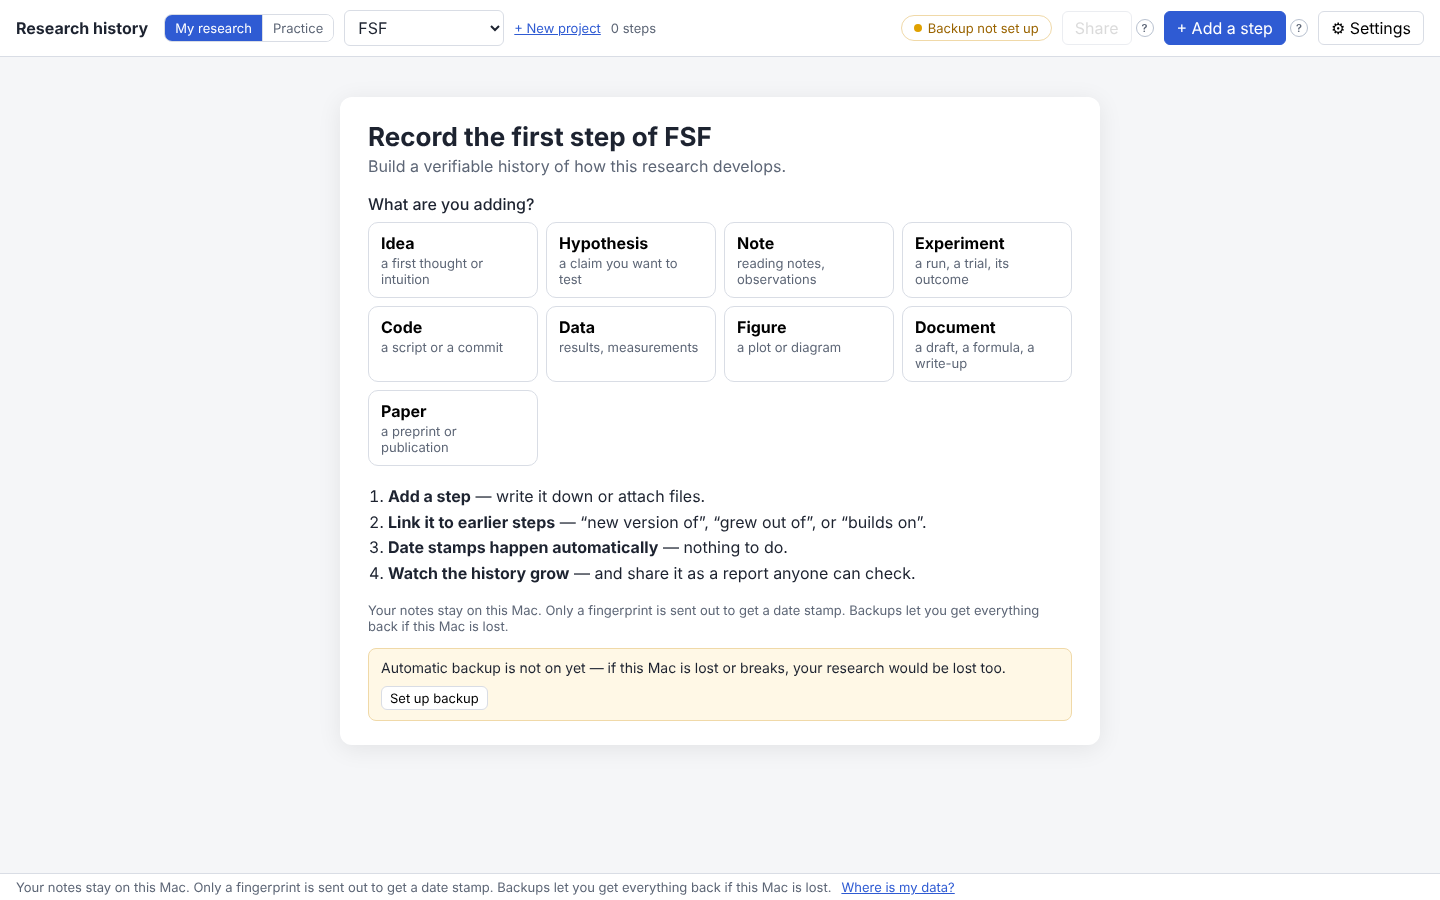
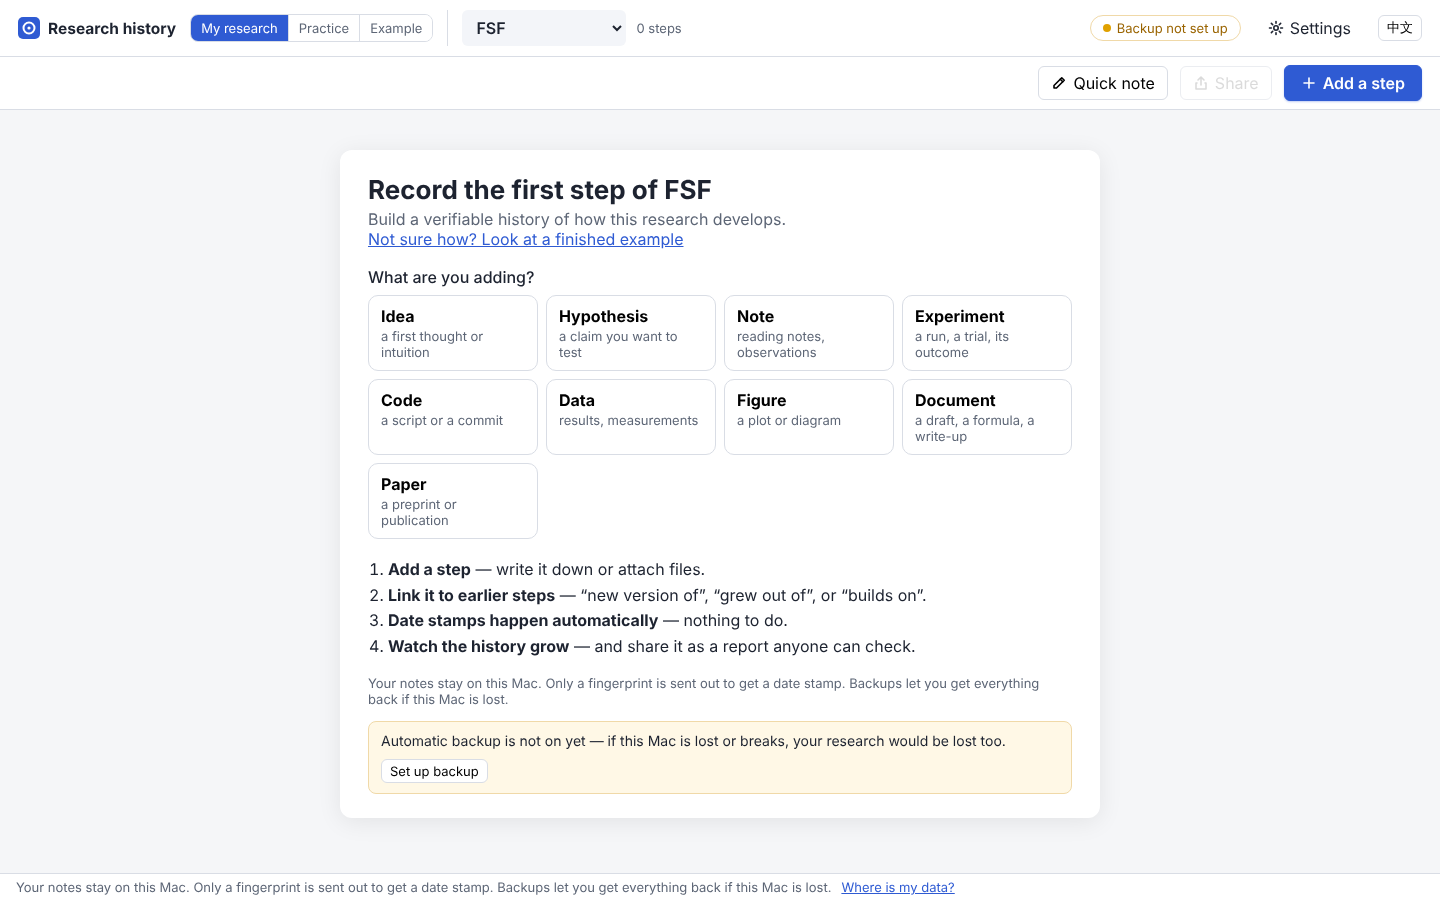
README for v0.7: three spaces, the example's languages, translation; new screenshots
- Title v0.7; the "AI inference" source now covers the online summary and
  the translation of a step; the example paragraph says it has two
  projects and the tour bar names the open one, and that it opens in
  seconds; the example is kept per language; the privacy paragraph and
  the AI section mention the local translation (en and zh alike).
- Screenshots made again from the FSF sample research with the current
  interface (tools/screenshots.py now loads the sample into My research):
  the map with key steps only, a step's panel, the form and the report;
  the backup-setup screenshot answers the folder check as a Mac with
  iCloud Drive would, instead of "Folder not found".

Claude-Session: https://claude.ai/code/session_01338vVwpoV2q7j2StFZ2dbS

diff --git a/tools/screenshots.py b/tools/screenshots.py
@@ -1,4 +1,4 @@
-"""Regenerate the README screenshots in docs/screenshots/ from sample data.
+"""Regenerate the README screenshots in docs/screenshots/ from the FSF sample research (D-059).
 
 Uses the mock time-stamping authority, so the screenshots show "rprov Mock TSA".
 
@@ -16,10 +16,10 @@ sys.path.insert(0, str(ROOT))
 
 from playwright.sync_api import sync_playwright  # noqa: E402
 
+from app.demo import load_sample  # noqa: E402
 from app.services.export import build_bundle_files, plan_export, write_dir  # noqa: E402
 from tests.e2e.conftest import chromium_path  # noqa: E402
 from tests.e2e.server import LiveServer  # noqa: E402
-from tests.sample import build_log  # noqa: E402
 
 OUT = ROOT / "docs" / "screenshots"
 
@@ -33,6 +33,9 @@ def first_run(browser) -> None:
         page.get_by_placeholder("e.g. FSF").fill("FSF")
         page.screenshot(path=OUT / "first-run.png")
         page.get_by_role("button", name="Start").click()
+        # This machine has no iCloud Drive: answer the folder check as a Mac with one would.
+        page.route("**/api/backup/check?*", lambda route: route.fulfill(json={
+            "ok": True, "kind": "synced", "label": "iCloud Drive", "safe": True, "creates": True}))
         page.get_by_test_id("backup-setup").get_by_label("Backup folder").fill(
             "/Users/you/Library/Mobile Documents/com~apple~CloudDocs/Research Provenance Backups"
         )
@@ -45,34 +48,52 @@ def first_run(browser) -> None:
         page.close()
 
 
+def app_screens(browser, tmp: Path) -> None:
+    """The map, a step's panel and the shared report, with the FSF sample research (D-059) in
+    My research, as if it were the author's own."""
+    with LiveServer(tmp) as srv:
+        load_sample(srv.ctx, "en")
+        page = browser.new_page(viewport={"width": 1440, "height": 860})
+        page.add_init_script("localStorage.setItem('rprov-tips-hidden', '1')")  # the how-to line, read
+        page.goto(srv.url)
+        page.get_by_test_id("steps").locator(".step-card").first.wait_for()
+        page.get_by_test_id("tab-graph").click()
+        page.get_by_test_id("graph").wait_for()
+        page.get_by_role("checkbox", name="Key steps only").check()  # the turning points, large enough to read
+        page.get_by_test_id("map-legend-hide").click()  # so that it covers no step
+        page.locator(".react-flow__controls-fitview").click()
+        page.wait_for_timeout(800)
+        page.screenshot(path=OUT / "graph.png")
+        page.get_by_test_id("map-legend-open").click()
+        page.get_by_role("checkbox", name="Key steps only").uncheck()
+
+        page.get_by_test_id("tab-steps").click()
+        page.get_by_role("button", name="Hypothesis H1′: the exponent depends on the forcing").first.click()
+        page.get_by_test_id("detail").wait_for()
+        page.wait_for_timeout(500)
+        page.screenshot(path=OUT / "detail.png")
+        page.get_by_test_id("new-record").click()
+        page.wait_for_timeout(300)
+        page.screenshot(path=OUT / "record-form.png")
+        page.close()
+
+        plan = plan_export(srv.ctx.ledger, "FSF (sample)", None, default="full")
+        bundle = tmp / "bundle"
+        write_dir(build_bundle_files(srv.ctx.ledger, srv.ctx.anchors, plan), bundle)
+        report = browser.new_page(viewport={"width": 1200, "height": 900})
+        report.goto((bundle / "report.html").as_uri())
+        report.wait_for_timeout(500)
+        report.screenshot(path=OUT / "report.png")
+        report.close()
+
+
 def main() -> None:
     OUT.mkdir(parents=True, exist_ok=True)
     with sync_playwright() as p:
         browser = p.chromium.launch(executable_path=chromium_path())
         first_run(browser)
-        browser.close()
-    with tempfile.TemporaryDirectory() as tmp, LiveServer(Path(tmp)) as srv, sync_playwright() as p:
-        ids = build_log(srv.ctx)
-        browser = p.chromium.launch(executable_path=chromium_path())
-        page = browser.new_page(viewport={"width": 1440, "height": 860})
-        page.goto(srv.url)
-        page.get_by_test_id("graph").wait_for()
-        page.wait_for_timeout(600)
-        page.screenshot(path=OUT / "graph.png")
-        page.get_by_test_id(f"node-{ids['exp']}").click()
-        page.get_by_test_id("detail").wait_for()
-        page.wait_for_timeout(400)
-        page.screenshot(path=OUT / "detail.png")
-        page.get_by_test_id("new-record").click()
-        page.wait_for_timeout(300)
-        page.screenshot(path=OUT / "record-form.png")
-
-        plan = plan_export(srv.ctx.ledger, "FSF sample", None, default="full")
-        bundle = Path(tmp) / "bundle"
-        write_dir(build_bundle_files(srv.ctx.ledger, srv.ctx.anchors, plan), bundle)
-        report = browser.new_page(viewport={"width": 1200, "height": 900})
-        report.goto((bundle / "report.html").as_uri())
-        report.screenshot(path=OUT / "report.png")
+        with tempfile.TemporaryDirectory() as tmp:
+            app_screens(browser, Path(tmp))
         browser.close()
     print(f"wrote screenshots to {OUT}")
 

diff --git a/README.zh.md b/README.zh.md
@@ -1,10 +1,10 @@
-# 研究演化证据工具 · Research provenance (v0.6)
+# 研究演化证据工具 · Research provenance (v0.7)
 
 [English](README.md) · **中文**
 
 装在你自己电脑上的研究记录工具。它把研究过程中的想法、笔记、实验、代码、数据、图和发表记成**互相连接的记录**，给每条记录留下**签名**和**时间证明**，让「这个研究是怎么一步步变成现在这样的」看得见、查得到，别人也能自己检查。
 
-![演化图](docs/screenshots/graph.png)
+![FSF 示例研究的关系图（只看关键步）](docs/screenshots/graph.png)
 
 完整需求见 [docs/PRD.md](docs/PRD.md)；实现中与 PRD 有出入或 PRD 没定的地方，记在 [docs/DECISIONS.md](docs/DECISIONS.md)。
 
@@ -30,7 +30,7 @@
 | --- | --- |
 | **Verified record**（可验证记录） | 有签名和时间证明，任何人都能自己检查。只说明记录当时已存在、之后没改过，不说明里面的话是真的。 |
 | **Author statement**（作者陈述） | 你自己说的：「为什么」、关系、导入旧材料时填的更早日期、本机时钟时间。系统只能证明「你在那天这样说过」。 |
-| AI 推断 | 可选：用你电脑上的模型总结「研究经过」时才有，单独标出，不会存成记录，也不进证据包（见下面「用本机 AI 总结要点」）。 |
+| AI 推断 | 只在你要求时才有：用 AI 模型总结「研究经过」（本机模型，或你连接的在线服务），或者用本机模型翻译某一步。单独标出，不会存成记录，也不进证据包（见下面「用 AI 总结要点」和「中文 / English」）。 |
 
 两种时间证明也永远分开显示，不会合并成一个笼统的「已验证时间」：
 
@@ -143,9 +143,9 @@ RPROV_HOME=~/.rprov-restore-test RPROV_KEYSTORE=memory make run PORT=8767
 
 只想单独备份签名钥匙：**Settings → Back up signing key only…**（完整备份里已经包含钥匙）。
 
-**先看一个完整的例子。** 第一次打开时，首页有「先看一个完整的例子」：一项虚构的研究 FSF，两个项目、32 步，用到了软件的所有功能（被修改的假设、被撤回的旁支想法、从 git 自动记录的代码、直接显示的图片和数据、更早的材料、后来的更正、关键步骤）。它在单独的一个空间 **示例** 里打开，语言跟着软件当前的语言，上方有一条 12 站的导览，每一站打开它讲的那部分。示例是紫色的，顶上也写着「示例」；在那里随便看、随便改，你的正式记录和练习区都不会受影响。空的正式记录里也有入口；之后随时可以点 **设置 → 看示例**（或者顶部开关里的 **示例**）打开，导览从第 1 站开始；**设置 → 重新放入示例** 可以把它恢复成一开始的样子。里面全部是编出来的（DECISIONS D-059、D-064）。
+**先看一个完整的例子。** 第一次打开时，首页有「先看一个完整的例子」：一项虚构的研究 FSF，两个项目、32 步，用到了软件的所有功能（被修改的假设、被撤回的旁支想法、从 git 自动记录的代码、直接显示的图片和数据、更早的材料、后来的更正、关键步骤）。它在单独的一个空间 **示例** 里打开，语言跟着软件当前的语言，上方有一条 12 站的导览，每一站打开它讲的那部分。示例是紫色的，顶上也写着「示例」；在那里随便看、随便改，你的正式记录和练习区都不会受影响。空的正式记录里也有入口；之后随时可以点 **设置 → 看示例**（或者顶部开关里的 **示例**）打开，导览从第 1 站开始；**设置 → 重新放入示例** 可以把它恢复成一开始的样子。示例有两个项目——FSF 研究本身，和为它搭建的流道装置——导览条会写明现在打开的是哪一个（「项目 1/2」/「项目 2/2」）。打开示例只要几秒钟，它的日期章在后台补上。里面全部是编出来的（DECISIONS D-059、D-064、D-065、D-067）。
 
-**先练习，再记正式的。** 记录一旦存下就删不掉，所以页面顶部有一个开关，分三个空间：**正式记录**（My research）/ **练习区**（Practice，只放你自己试的东西）/ **示例**（Example，就是上面那项虚构的研究）。练习区是完全分开的另一套数据和签名钥匙（放在 `~/.rprov/practice/`；示例放在 `~/.rprov/example/`），顶栏变成橙色，并一直提醒「练习区：这里的内容不会进入你的正式记录，随便试。」；在那里保存直接存，按钮写 **保存练习步骤**。练习区不备份，可以在 **设置 → 清空练习区…** 清空重来。第一次打开时也可以先点「打开练习区」。如果你从旧版本升级，而旧的练习区里放着示例，示例会自动搬到「示例」里，练习区变成空的（D-064）。
+**先练习，再记正式的。** 记录一旦存下就删不掉，所以页面顶部有一个开关，分三个空间：**正式记录**（My research）/ **练习区**（Practice，只放你自己试的东西）/ **示例**（Example，就是上面那项虚构的研究）。练习区是完全分开的另一套数据和签名钥匙（放在 `~/.rprov/practice/`；示例放在 `~/.rprov/example/`，每种语言一份），顶栏变成橙色，并一直提醒「练习区：这里的内容不会进入你的正式记录，随便试。」；在那里保存直接存，按钮写 **保存练习步骤**。练习区不备份，可以在 **设置 → 清空练习区…** 清空重来。第一次打开时也可以先点「打开练习区」。如果你从旧版本升级，而旧的练习区里放着示例，示例会自动搬到「示例」里，练习区变成空的（D-064）。
 
 **没有账户。** 不用登录，也没有「退出账户」：软件只在这台电脑上、在你当前的电脑用户账户下保存一位作者的记录，用一把签名钥匙。别人用同一台电脑时，请用他们自己的电脑用户账户登录电脑，那样会有各自的数据文件夹和钥匙串。
 
@@ -153,7 +153,7 @@ RPROV_HOME=~/.rprov-restore-test RPROV_KEYSTORE=memory make run PORT=8767
 
 **想在命令行里另开一份样例？** `make demo && make run` 会把虚构的 FSF 样例（14 条记录，9 种类型，3 种关系，里程碑、后来补加的关系、补充说明、L1/L2 导入、撤回）载入一个空的数据目录。记录不能删除，所以开始记真实材料之前，把样例挪开：`mv ~/.rprov ~/.rprov-demo`（以后用 `RPROV_HOME=~/.rprov-demo make run` 再看样例）。也可以一开始就 `RPROV_HOME=~/.rprov-demo make demo`。
 
-数据都在 `~/.rprov/`（权限 0700）。原文、附件、标题、说明都不离开本机；对外只发送时间证明所需的哈希（记录 ID），时间证明服务能看到请求的 IP 地址和时间。没有账号，没有我们的云服务，没有任何统计或崩溃上报。自动备份只是往你选的本地文件夹里写一个加密文件；如果那个文件夹被你自己的 iCloud / Dropbox 同步，离开电脑的也只是这个打不开的加密文件（见 DECISIONS D-033）。另外有几件事会多发出一些东西，每一件都只在你点了以后才做：用 GitHub 网址记录一个仓库时，会把它下载下来（不会发出你的任何东西）；在「分享」里可以把证据包放进 git 仓库并推送到 GitHub，或者在 Zenodo 上建一个草稿——发出去的只有你做的那个证据包，内容是你选择公开的那些（D-060）；可选的在线 AI 总结，会把研究经过里的句子发给你连接的 AI 服务，但只在你看过要发的全部内容、点了「发送」之后（D-061）。
+数据都在 `~/.rprov/`（权限 0700）。原文、附件、标题、说明都不离开本机；对外只发送时间证明所需的哈希（记录 ID），时间证明服务能看到请求的 IP 地址和时间。没有账号，没有我们的云服务，没有任何统计或崩溃上报。自动备份只是往你选的本地文件夹里写一个加密文件；如果那个文件夹被你自己的 iCloud / Dropbox 同步，离开电脑的也只是这个打不开的加密文件（见 DECISIONS D-033）。另外有几件事会多发出一些东西，每一件都只在你点了以后才做：用 GitHub 网址记录一个仓库时，会把它下载下来（不会发出你的任何东西）；在「分享」里可以把证据包放进 git 仓库并推送到 GitHub，或者在 Zenodo 上建一个草稿——发出去的只有你做的那个证据包，内容是你选择公开的那些（D-060）；可选的在线 AI 总结，会把研究经过里的句子发给你连接的 AI 服务，但只在你看过要发的全部内容、点了「发送」之后（D-061）。翻译某一步用的是你电脑上的模型，什么都不会发出去（D-066）。
 
 ## 中文 / English
 
@@ -218,7 +218,7 @@ RPROV_HOME=~/.rprov-restore-test RPROV_KEYSTORE=memory make run PORT=8767
 
 ### 用 AI 总结要点（可选）
 
-「研究经过」页最上面有「AI 总结要点…」按钮（最下面也有「用 AI 模型总结要点（可选）…」）。模型可以在**这台电脑上**运行（默认），也可以用你自己连接的**在线 AI 服务**（见下面）。模型会分几块写简短的要点：一句话总结、起点、经过、关键转折、现在到哪了，每条后面标着它来自哪几步，点一下就能打开那一步。文字是边写边出现的，旁边显示已经用了多久；随时可以点**停止**（模型会真的停下）。本机模型一般要一到三分钟，第一次还要先加载模型。需要你自己先装一个在本机运行的模型，比如 [Ollama](https://ollama.com)（中文可以用 Qwen 一类的模型，最好 16 GB 内存）或 LM Studio。
+「研究经过」页最上面有「AI 总结要点…」按钮（最下面也有「用 AI 模型总结要点（可选）…」）。模型可以在**这台电脑上**运行（默认），也可以用你自己连接的**在线 AI 服务**（见下面）。模型会分几块写简短的要点：一句话总结、起点、经过、关键转折、现在到哪了，每条后面标着它来自哪几步，点一下就能打开那一步。文字是边写边出现的，旁边显示已经用了多久；随时可以点**停止**（模型会真的停下）。本机模型一般要一到三分钟，第一次还要先加载模型。需要你自己先装一个在本机运行的模型，比如 [Ollama](https://ollama.com)（中文可以用 Qwen 一类的模型，最好 16 GB 内存）或 LM Studio。同一个本机模型也可以帮你翻译某一步（见「中文 / English」）。
 
 - **只连本机。** 地址只接受 `127.0.0.1`、`localhost` 或 `::1`（Ollama 默认 `http://127.0.0.1:11434`，LM Studio 默认 `http://127.0.0.1:1234`）；填别的地址会被拒绝。不用代理、不跟随跳转，所以内容不会离开电脑，「内容不离开电脑」的承诺不变。
 - **它只拿到研究经过里的句子**（标题、你写的原因和说明），拿不到步骤的正文和附件。
